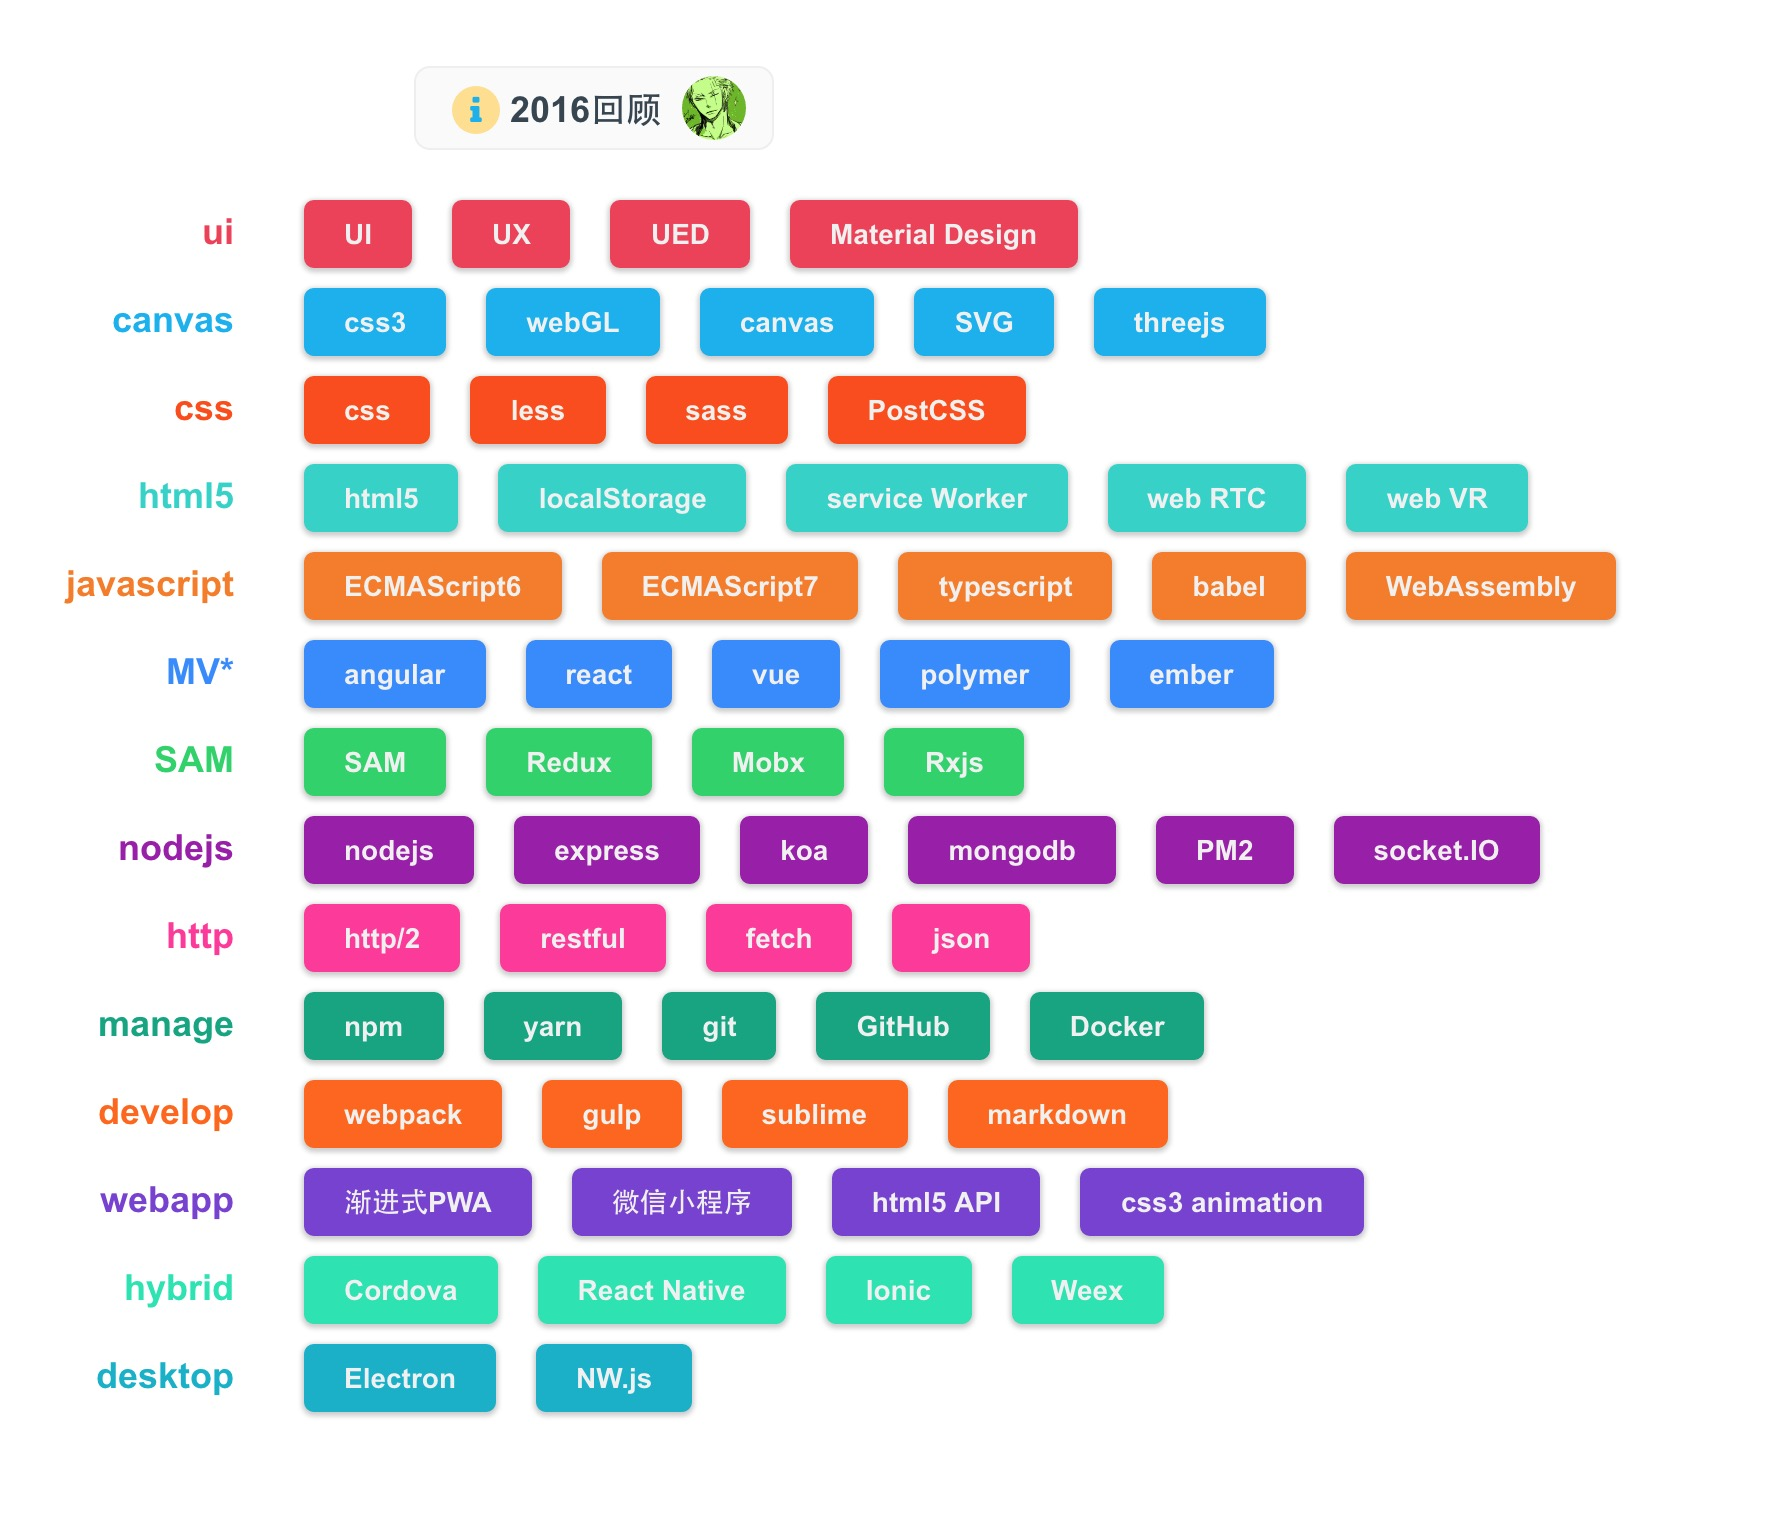
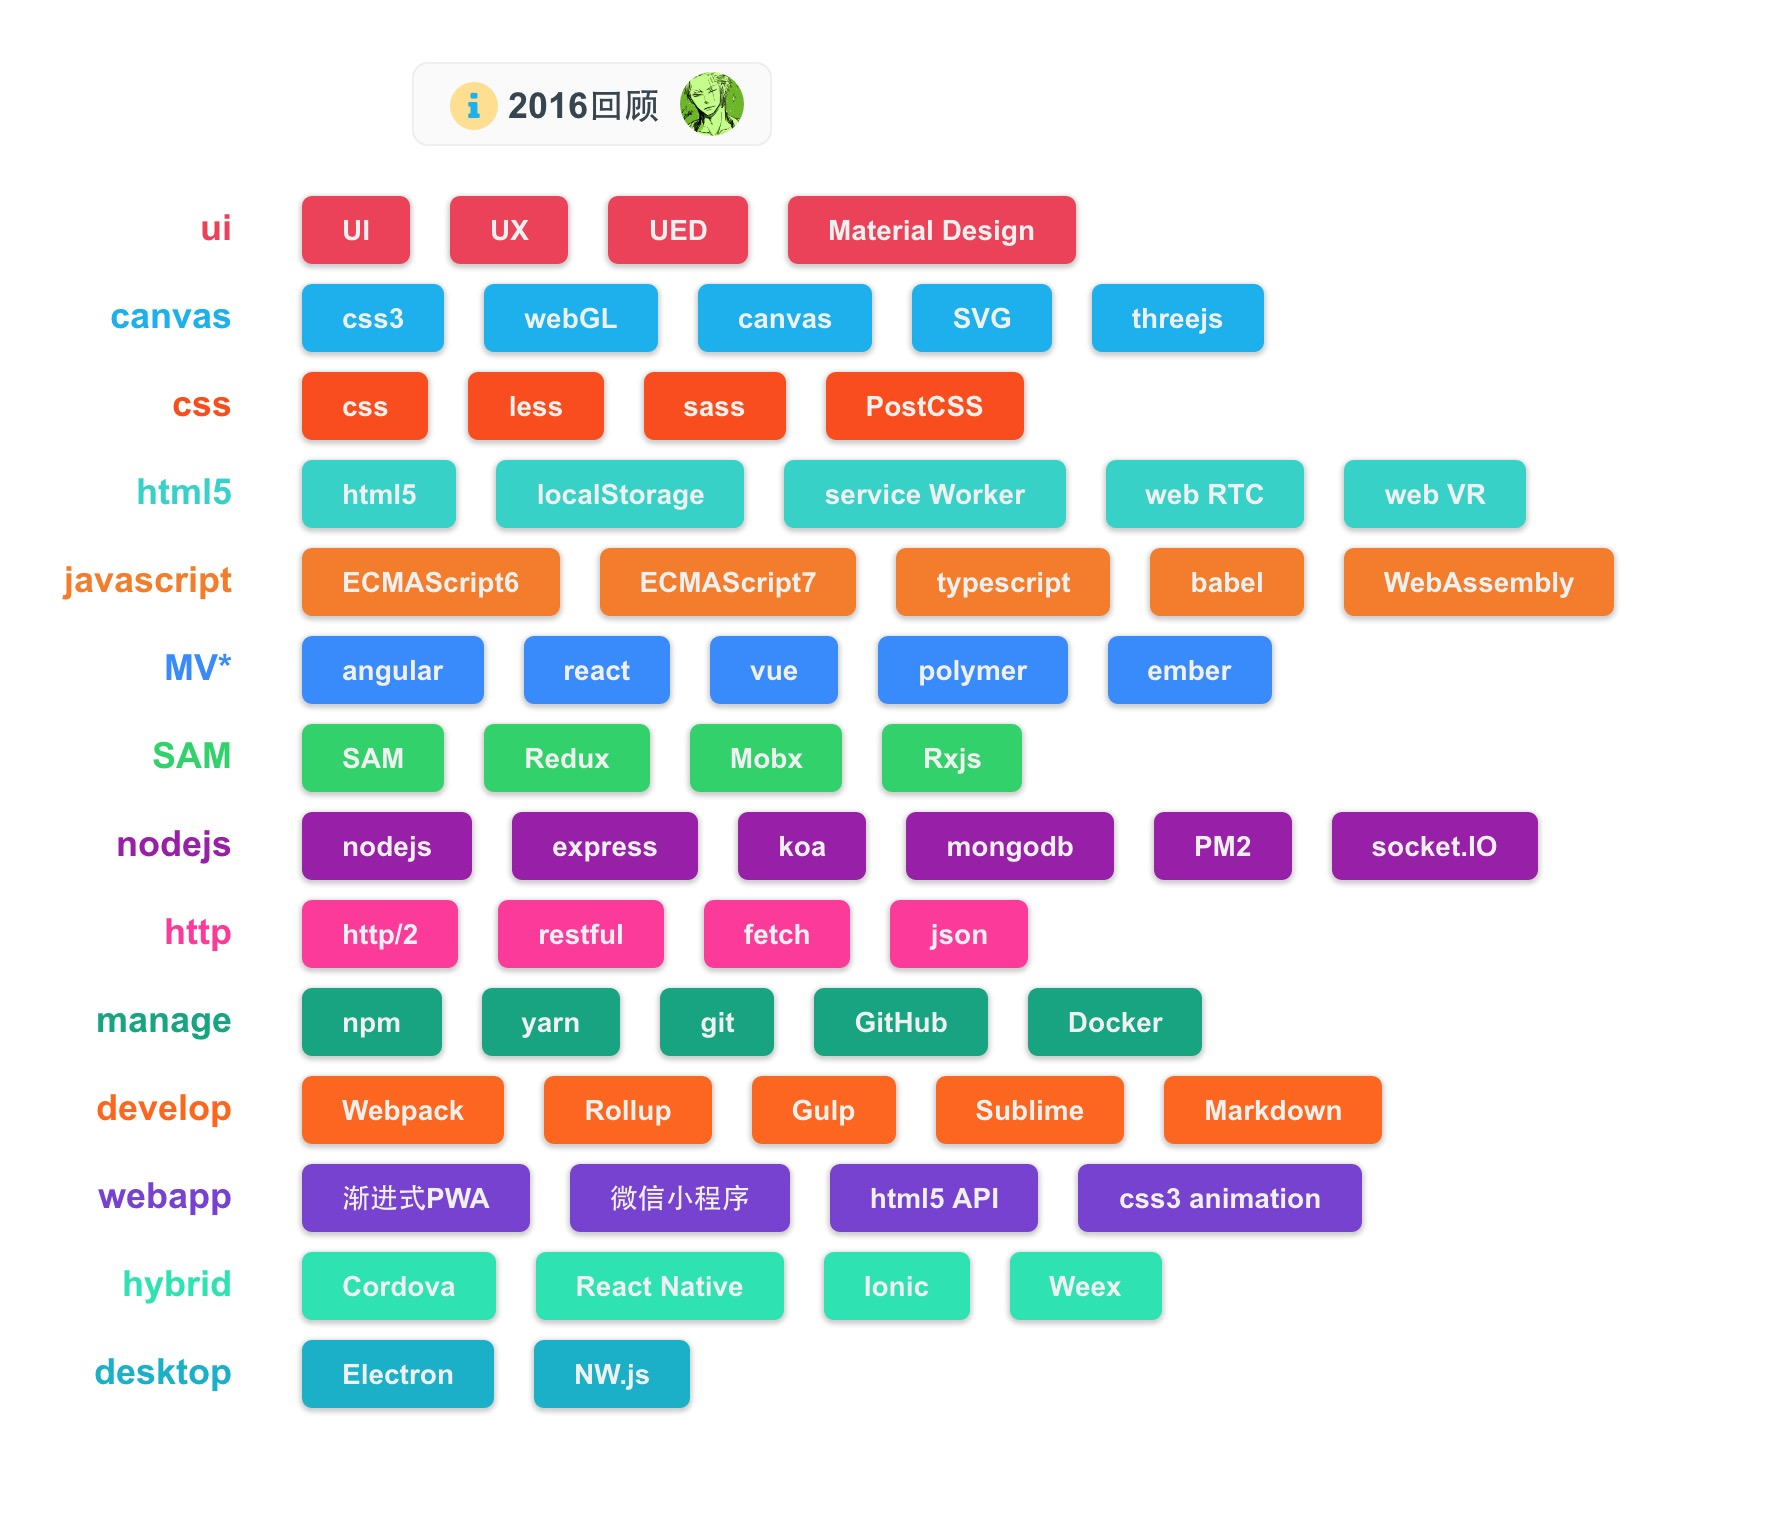
update

diff --git a/demo/views/content/log/fontend.tsx b/demo/views/content/log/fontend.tsx
@@ -6,7 +6,7 @@ var data={
 	'ui':['UI','UX','UED','Material Design'],
 	'canvas':['css3','webGL','canvas','SVG','threejs'],
 	'css':['css','less','sass','PostCSS'],
-	'html5':['html5','localStorage','service Worker','web RTC','web VR'],
+	'html5':['html5','localStorage','Service Worker','web RTC','web VR'],
 	'javascript':['ECMAScript6','ECMAScript7','typescript','babel','WebAssembly'],
 	'MV*':['angular','react','vue','polymer','ember'],
 	'SAM':['SAM','Redux','Mobx','Rxjs'],

diff --git a/README.md b/README.md
@@ -24,7 +24,7 @@ $ typings install
 $ npm start 		//默认端口8000
 `
 
-5. 打开浏览器，访问: [http://localhost:8000/](http://localhost:8000/)
+5. 打开浏览器，访问: [http://localhost:9000/](http://localhost:9000/)
 
 #### 持续更新中...
 
